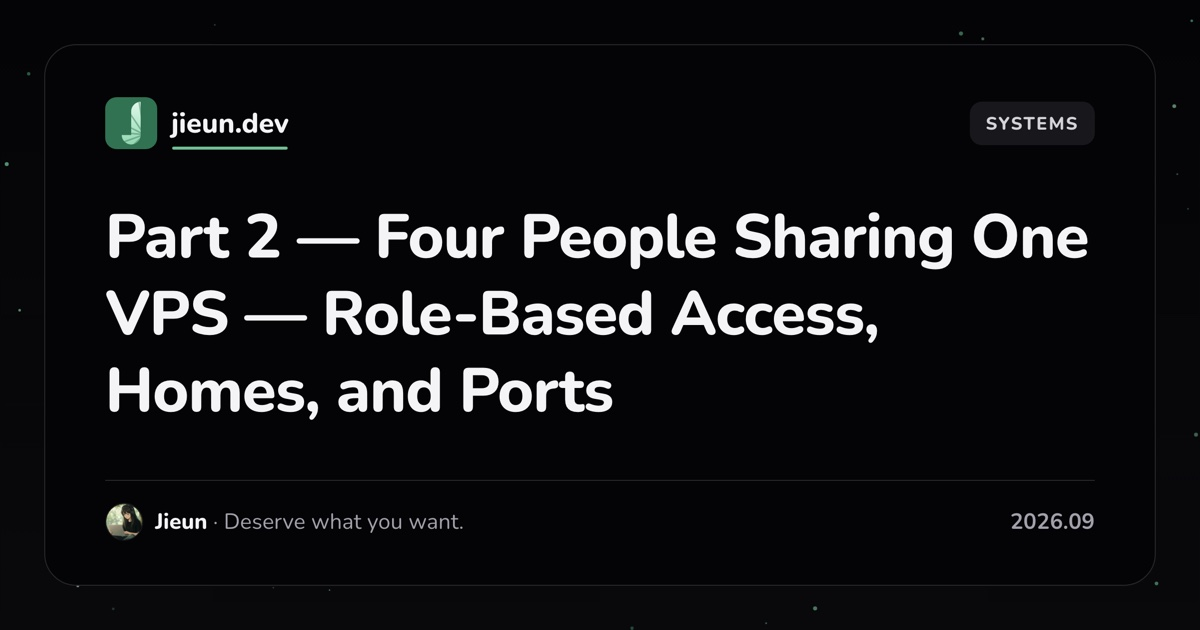
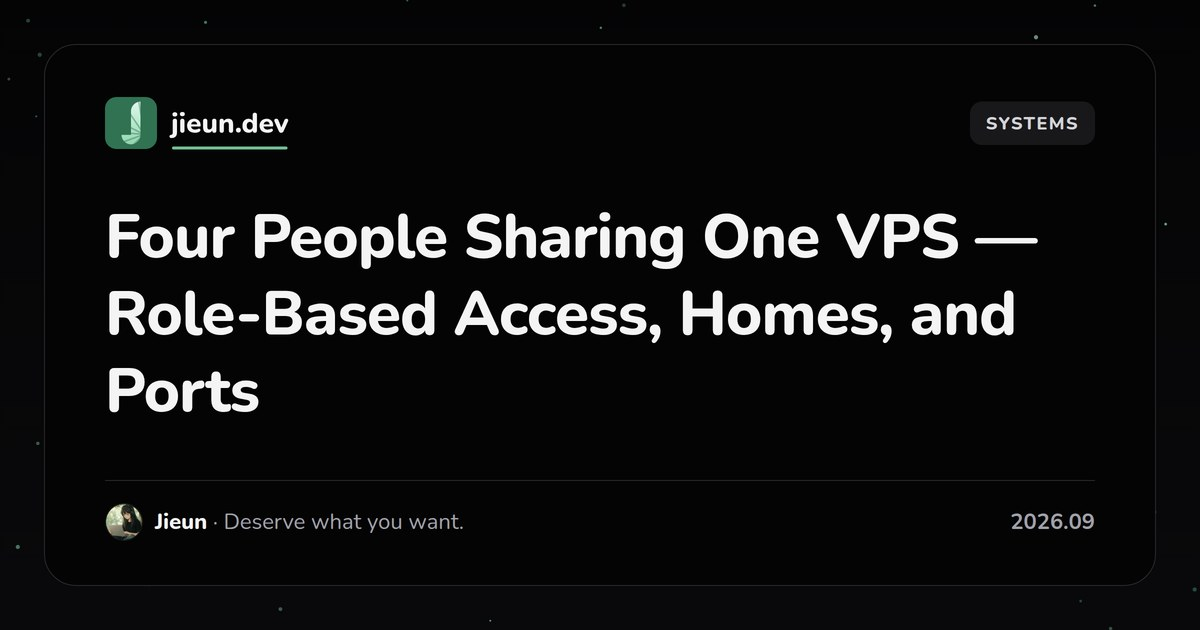
docs: add English title article and refine post presentation

diff --git a/src/content/blog/en/making-ai-blog-titles-readable.md b/src/content/blog/en/making-ai-blog-titles-readable.md
@@ -1,0 +1,172 @@
+---
+title: "How Can We Make AI-Generated Blog Titles Readable?"
+description: "How I improved verbose AI-generated topic titles by having Grok identify the answer readers need from the input and a verified outline, then choose an appropriate title format."
+subtitle: "Letting Grok judge meaning while code preserves and validates titles"
+pubDate: 2026-10-18
+tags: ["llm", "prompt-engineering", "content-automation"]
+category: systems
+cover: /covers/readable-ai-titles-v6.png
+coverFit: contain
+coverBackground: dark
+coverAlt: "A navy diagram showing input and a verified outline leading to question, informational, or experience-based titles. Korean labels distinguish Grok's meaning judgment from preservation rules enforced in code."
+series: wiblog-quality
+seriesOrder: 1
+seriesTitle: "Improving Wiblog Titles and Search"
+draft: false
+---
+
+## Introduction
+
+Wiblog takes a keyword, prepares topic candidates with descriptions, outlines, and sources, and generates an article from the topic the user chooses.
+
+When I reviewed real estate topics myself, the titles often stopped me. They were long and stiff, and I could not immediately tell what answer an article would provide.
+
+This post follows the problems I encountered in use back to the generation instructions and code. In particular, it explains which judgments I left to the LLM and which behaviors I handled in code. It ends with a complete before-and-after comparison from an additional title-generation run on 21 existing topics.
+
+## 1. Discarding Topics Because of Their Titles Led Me to the Generation Path
+
+### I discarded topics because I could not edit their titles
+
+At the time, users could not edit a topic card's title before generating the article. They could edit the title of a generated article, but not while choosing a topic. As a result, I often excluded the entire topic card when I disliked its title.
+
+The saved titles show what this verbosity looked like. The Korean titles are translated into English here and in the comparisons below.
+
+| Area | Original topic title |
+| --- | --- |
+| Yongsan | Cash settlement risks and how to check contract clauses when buying a Yongsan redevelopment apartment |
+| Byeongjeom | Comparing transport, living conditions, market prices, and parking by complex through Byeongjeom officetel resident reviews |
+| Hannam | How to check redevelopment status by district and villa listings before a site visit to Bogwang-dong, Hannam |
+
+The titles seemed to contain useful material, but I did not particularly want to click them. Phrases such as “how to check,” “selection criteria,” and “key information” kept recurring. Placed side by side, topics covering different subjects all looked like similar instruction sheets.
+
+### Overlapping problems made it hard to identify what to fix
+
+I was the only PoC engineer, and I was putting experiments into production almost weekly. Identifying what needed fixing took much longer. Awkward titles, outlines drifting away from the original question, and missing source material were appearing together.
+
+I had to distinguish whether a title merely needed shortening, whether the outline was wrong, or whether the sources were insufficient. That meant checking not just the title on screen, but also the generation instructions and the paths where it changed.
+
+### Titles were generated more than once
+
+The system first generated a title from a keyword, then generated another title after gathering material and writing the outline. Improving only the initial title would still allow it to be overwritten later.
+
+```plaintext
+Keyword → Initial title → Source collection and outline → Final title regeneration
+```
+
+| Generation stage | Previous instruction or behavior | What needed attention |
+| --- | --- | --- |
+| Initial topic generation | Group topics into categories such as methods, steps, comparisons, and precautions, then write an instructional title | Categories and instructional wording could take precedence over a concrete question. |
+| Title generation after the outline | Write a title that represents the outline | Trying to include several outline items could produce a long list. |
+| Updating the topic card | Replace the title with the one generated after the outline | Both generation stages needed consistent title principles. |
+
+Trying to represent transport, living conditions, market prices, and parking adds one item after another to the title. This helped explain the verbosity I saw on screen. Without deciding which answer the title should foreground, representing more of the outline could simply make the title longer.
+
+This was an improvement opportunity identified from the previous code and its visible output. I did not trace every intermediate title for each topic and measure whether it grew at every stage.
+
+## 2. Grok Chose the Title Format; Code Enforced the Rules
+
+### Shortening titles or adding question marks was not enough
+
+Changing “how to check” into “how can I check?” makes a sentence a little more conversational. But someone looking for the current status needs the status itself. “Where can I check the current status?” can change the promised answer into lookup instructions.
+
+The intermediate results also leaned too heavily toward questions. Version 9 of the early comparison still produced many question titles, and it also replaced established real estate terminology: “school districts and apartment prices” became wording closer to “schools and house prices, summarized.” In trying to sound natural, it changed terms familiar to readers in the field.
+
+What these iterations revealed was the need to distinguish **the kind of answer the reader wants**. A direct question about an amount, a request for a schedule or list, and a request for actual experiences did not all need the same instructional tone.
+
+| Format | When to choose it | Wording direction |
+| --- | --- | --- |
+| Question | The reader wants a direct answer about an amount, feasibility, or a choice | Ask how much is needed, whether something is possible, or which option is better. |
+| Informational | The reader wants status, lists, school districts, prices, comparisons, or schedules | State the subject and the information the article provides. |
+| Experience-based | The reader wants real experiences, satisfaction, or inconveniences, and experience-based sources are available | Describe actual experiences without pretending the author personally had them. |
+
+The word “price” did not automatically trigger a question title. Required purchase funds and a comparison of prices across areas call for different answers. There were no quotas for each format or fixed sentence endings.
+
+### I left interpreting the input and outline to Grok
+
+Grok was already generating the titles. The change was to **instruct Grok, within the title-generation prompt, to choose a format first and then write the title.** A separate classifier did not assign the format.
+
+| Input to final title generation | Purpose |
+| --- | --- |
+| Target keyword | Identify what the topic was originally meant to address |
+| A sentence saved by a person | Preserve the subject, conditions, and wording of the question |
+| Verified outline items, descriptions, and source links | Establish the planned article's content and the scope of its evidence |
+| The topic's reader question | Provide wording guidance when no saved sentence exists |
+
+Grok reads the input and outline, determines what answer is being sought, and writes a title in a form that conveys that answer. The aim was to generate a natural title suited to the planned content, without forcing it into a fixed sentence template. Question, informational, and experience-based formats are criteria that help guide that judgment.
+
+The title model does not read the entire finished article. Source texts are used to write and verify an outline, which is then passed to title generation. The reader question is also only wording guidance, not factual evidence.
+
+### From topic to title: a step-by-step timeline
+
+The following is an illustrative example of the processing flow. It shows how a draft covering several points narrows its focus after the outline is available.
+
+| Step | Responsibility and processing | Example data |
+| --- | --- | --- |
+| **01 · Input** | Code passes the input | **Keyword:** Yongsan redevelopment apartments |
+| ↓ **02 · Topic title** | Grok generates an initial title | **Draft:** Cash settlement risks, association membership eligibility, contract clauses, and precautions to know before buying a Yongsan redevelopment apartment |
+| ↓ **03 · Evidence and outline** | Collect source texts → Write and verify the outline | **Outline:** ① Conditions under which an apartment purchase can lead to cash settlement rather than a replacement unit ② Conditions for transferring association membership ③ Checks before signing a contract<br />Each item has a description and supporting sources. |
+| ↓ **04 · Final title** | Grok reads the input and outline, chooses a format, and returns a title and input-coverage assessment | **Core question reflected in the outline:** Could I buy the apartment but still not qualify for a replacement unit?<br />**Title:** Could buying a Yongsan redevelopment apartment leave me facing cash settlement?<br />**Input coverage:** `answered: true`<br />**Reason:** The outline covers conditions leading to cash settlement and checks to make before buying. |
+| ↓ **05 · Code validation** | Check response structure, required assessment, and title rules | **Result:** `status: ready`<br />The finalized title goes into `proposed_title`. |
+| ↓ **06 · Storage and subsequent generation** | Save the finalized title → Preserve it through article generation and rewriting | **Title on the topic card and article:** Could buying a Yongsan redevelopment apartment leave me facing cash settlement? |
+
+Association eligibility and contract clauses remain in the outline as material to explain. The title foregrounds the question connecting them: “Could I buy the property and still end up with cash settlement?” Grok decides what belongs in the title, while code keeps the validated title in subsequent generation steps.
+
+### I handled mandatory behavior in code
+
+Choosing natural wording is different from preserving saved input or checking for required response fields. I left meaning judgments to Grok, but did not rely solely on prompts for rules that code could enforce explicitly.
+
+| Judgment or behavior | Grok's responsibility | Code's responsibility |
+| --- | --- | --- |
+| Title format and wording | Read the input and outline, then choose a suitable form and expression | Do not force a format based on particular words. |
+| Whether the input can be answered | Assess it through `answered` and `reason` in `input_coverage` | Check for missing assessments and hold results that say the input cannot be answered. |
+| A sentence saved by a person | Assess whether the question can be answered | Restore the saved wording as the title after a positive coverage assessment. |
+| Preserving the original intent | Avoid substituting another question when the available material is insufficient | Block certain clear cases where a request for current status is turned into lookup instructions. |
+| Subsequent generation | Write the article to match the finalized title | Use the finalized title during article generation and rewriting. |
+
+`input_coverage` is **an LLM's assessment of meaning**. Checking its value in code does not independently verify the facts in the sources.
+
+A saved sentence takes precedence over format selection. I did not let the model rewrite a person's question into its preferred wording. The rule blocking a change from status to lookup instructions also distinguishes inputs and saved sentences that explicitly asked for lookup instructions in the first place.
+
+## 3. Regenerating Titles for the Same 21 Topics
+
+These are English translations of the Korean titles, not a separate English generation experiment. “Jeonse” refers to Korea's lump-sum deposit rental arrangement; “villa” here refers to low-rise multifamily housing.
+
+| No. | Original title | Regenerated title or outcome |
+| ---: | --- | --- |
+| 1 | Cash settlement risks and how to check contract clauses when buying a Yongsan redevelopment apartment | Could buying a Yongsan redevelopment apartment leave me facing cash settlement? |
+| 2 | Stages and current status of the Bangbae Imgwang 3rd Complex reconstruction project | Bangbae Imgwang 3rd Complex reconstruction: current stage and owner contributions |
+| 3 | What are the sale terms and contact methods for remaining retail units at Mapo Newmad officetel? | Remaining retail units at Mapo Newmad officetel: sale terms and location |
+| 4 | Checking owner-occupancy requirements and the complex environment before a Segyo 2 Jungheung S-Class jeonse contract | Segyo 2 Jungheung S-Class jeonse: owner-occupancy requirements and the appeal of the 34-pyeong layout |
+| 5 | Complexes benefiting from the Osan Station GTX-C extension: Segyo New Town accessibility and price increases | Complexes benefiting from the Osan Station GTX-C extension: accessibility changes in Segyo District 2 |
+| 6 | Segyo M-bus route to Gangnam Station and how to use peak-hour departure reservations | Segyo M-bus route to Gangnam Station and peak-hour service intervals |
+| 7 | Checking Yongsan Park's impact on apartment prices and land transaction permit risks | How the development of Yongsan Park affects nearby apartment transaction prices |
+| 8 | Reasons and investment advantages of buying a villa instead of a Yongsan redevelopment apartment | Is buying a villa better than a Yongsan redevelopment apartment? |
+| 9 | Preparing the deposit and balance after winning a Seoul apartment lottery for unallocated units in October 2026 | After winning a Seoul apartment lottery for unallocated units in 2026, how much is the deposit and when is it due? |
+| 10 | How to check redevelopment status by district and villa listings before a site visit to Bogwang-dong, Hannam | Bogwang-dong, Hannam site-visit route and redevelopment progress by district |
+| 11 | Ansan Lake Town Prugio location, facilities, and resident reviews of drawbacks | Ansan Lake Town Prugio resident reviews |
+| 12 | Yangpyeong Station location analysis: parking and living conditions through resident reviews | Resident reviews of apartments near Yangpyeong Station |
+| 13 | How to check project stages and district status in the Geoyeo–Macheon redevelopment promotion area | Geoyeo–Macheon redevelopment promotion area: project stages in the 2025 notice and changes to Macheon districts |
+| 14 | Aircraft noise in Jangji-dong: officetel reviews and noise-affected area support | Living with aircraft noise in a Jangji-dong officetel: resident reviews |
+| 15 | Apartment jeonse prices near major companies in Dongtan: differences by location and selection criteria | No finalized title — held because the assessment found that the input question could not be answered |
+| 16 | Comparing transport, living conditions, market prices, and parking by complex through Byeongjeom officetel resident reviews | Byeongjeom officetel resident reviews: transport, parking, and maintenance fees by complex |
+| 17 | Jeonse apartments next to elementary schools in Byeongjeom, focusing on deposit levels and complex features | Jeonse apartments next to elementary schools in Byeongjeom: deposit levels and complex pros and cons |
+| 18 | Reasons for the estimated Sanggye Jugong 5th Complex contribution, post-contract risks, and pre-purchase checks | Why the Sanggye Jugong 5th Complex contribution is estimated at ₩500–600 million |
+| 19 | Realistic additional reconstruction contributions and risk checks for Nowon-gu apartments | Sanggye Jugong 5th Complex reconstruction: ₩700 million additional contribution, ₩1.4 billion total investment |
+| 20 | Seongsu Strategic Redevelopment Zone progress and how to check status by district | Seongsu Strategic Redevelopment Zone: progress by district |
+| 21 | Comparing the prime locations of Mokdong New Town Complexes 5 and 7: why Complex 5 leads in reconstruction | Mokdong Complexes 5 and 7: reconstruction feasibility and location comparison |
+
+### The titles made the promised answers clearer
+
+The clearest change was that instructional phrasing and lists receded, while the reader's question or the information provided came to the foreground.
+
+For Seongsu, “progress by district” replaced “how to check status,” making the information available in the article immediately clear. The Jangji-dong title moved from listing noise, reviews, and support information to resident reviews of aircraft noise in an officetel, making the experience being discussed more specific.
+
+The deposit title became longer, but replaced the vague idea of “preparing” with “how much and when?” The point of this change was **to clarify what the article answers**, rather than simply make titles shorter.
+
+## Conclusion
+
+The starting problem was long, stiff titles. Addressing it required both a judgment about what to keep in the title and code that preserved that judgment afterward.
+
+I left interpreting the input and outline and selecting the title's form to Grok. I used code to preserve original wording, handle explicit errors, and retain finalized titles. That boundary let the title express the answer the planned article could provide and kept the result intact through later generation stages.
+
+The next post covers carrying the needed answer into search queries and assigning collected platform documents across topic candidates.

diff --git a/docs/writing/many-cheap-calls-cover-v2.md b/docs/writing/many-cheap-calls-cover-v2.md
@@ -1,0 +1,12 @@
+# 다회 호출 글 커버 v2
+
+- 도구: image_gen
+- 참조: public/covers/many-cheap-calls-blue-cover.png
+- 결과: public/covers/many-cheap-calls-blue-cover-v2.png
+- 기존 비교 도식과 문구를 유지하면서 제목과 수치 크기를 줄였습니다.
+
+## 프롬프트
+
+```text
+Edit this Korean technical blog cover. Keep navy background, restrained blue/slate palette, two-panel comparison, single bar on left and exactly eight blue bars on right, thin rule and footer. Reduce ALL text sizes substantially: headline to 50% original size, big result numbers to 55%, panel titles to 70%, supporting labels to 80%. Increase whitespace; no oversized typography. Exact text must remain correct: 'LLM BENCHMARK / GENERATION PIPELINE'; '한 번에 길게, 대신 짧게 여러 번'; left '한 번에 8,000자 요청', '1회 생성', '3,182자', '단일 생성 최장 분량'; right '1,200자씩 8개 섹션', '8,995자', '조립 후 게이트 통과'; footer '같은 모델 · 단일 생성과 분할 생성 비교', 'jieun.dev'. Retain relative hierarchy while making graphic bars more visually prominent than lettering. Clean precise Korean typography. Same wide aspect ratio.
+```

diff --git a/src/content/blog/ko/part1-three-tier-dev-environment.md b/src/content/blog/ko/part1-three-tier-dev-environment.md
@@ -1,5 +1,5 @@
 ---
-title: "Part 1 — 16GB 맥북 네 대 대신 96GB VPS를 선택한 이유"
+title: "16GB 맥북 네 대 대신 96GB VPS를 선택한 이유"
 description: "코드는 서버에 있고 컴파일도 서버가 하고, 맥북은 화면만 받습니다. 네 명이 한 대를 나눠 쓰게 되면서 이 구조가 어디까지 맞고 어디부터 타협인지 다시 따져봤습니다. dev 서버 하나가 4시간에 1.2GB에서 3.7GB로 자라는 걸 보고서야 무엇을 서버에 둬야 하는지 분명해졌습니다."
 subtitle: "16GB 맥북의 한계 때문에 코드 실행과 빌드를 96GB VPS로 옮기고, 맥북·개발 서버·운영 서버의 역할을 나눴습니다. 화면 개발에는 적합했지만 운영 API에 연결되는 구조여서, e2e 테스트는 별도 로컬 환경으로 분리해야 한다고 판단했습니다."
 pubDate: 2026-09-15

diff --git a/src/content/blog/ko/part2-four-people-one-dev-machine.md b/src/content/blog/ko/part2-four-people-one-dev-machine.md
@@ -1,5 +1,5 @@
 ---
-title: "Part 2 — VPS 한 대를 네 명이 나눠 씁니다 — 역할별 권한·홈·포트 격리 설계"
+title: "VPS 한 대를 네 명이 나눠 씁니다 — 역할별 권한·홈·포트 격리 설계"
 description: "16GB 맥북의 한계를 느껴 빌린 96GB·18코어 서버를 개발자 Jieun·Sungsuk, 디자이너 Juhee, 마케터 Jina가 함께 쓰게 됐습니다. 역할에 따라 권한과 프로젝트 홈, 포트를 나누고 운영 서버는 공용 터널 서비스 뒤에 격리했습니다."
 subtitle: "개발자 두 명과 디자이너, 마케터가 VPS 한 대를 함께 쓰면서 역할별로 계정과 홈, 포트를 나눴습니다. 각자의 작업공간은 분리하되, 운영 API 연결은 공용 터널 서비스가 담당하도록 구성했습니다."
 pubDate: 2026-09-16

diff --git a/src/content/blog/en/part1-three-tier-dev-environment.md b/src/content/blog/en/part1-three-tier-dev-environment.md
@@ -1,5 +1,5 @@
 ---
-title: "Part 1 — Why We Chose a 96GB VPS Instead of Four 16GB MacBooks"
+title: "Why We Chose a 96GB VPS Instead of Four 16GB MacBooks"
 description: "The code lives on the server, the server compiles it, and the MacBook only runs the browser. Once four people started sharing one machine, we had to re-check where this structure is sound and where it is a compromise. Seeing one dev server grow from 1.2GB to 3.7GB in four hours made it clear what belongs on the server."
 subtitle: "A dev server that grew from 1.2GB to 3.7GB in 4 hours"
 pubDate: 2026-09-15

diff --git a/src/content/blog/en/part2-four-people-one-dev-machine.md b/src/content/blog/en/part2-four-people-one-dev-machine.md
@@ -1,5 +1,5 @@
 ---
-title: "Part 2 — Four People Sharing One VPS — Role-Based Access, Homes, and Ports"
+title: "Four People Sharing One VPS — Role-Based Access, Homes, and Ports"
 description: "Developers Jieun and Sungsuk, designer Juhee, and marketer Jina started sharing the 96GB, 18-core server we rented after hitting the limits of 16GB MacBooks. We separated permissions, project homes, and ports by role, and isolated production access behind a shared tunnel service."
 subtitle: "Two developers, a designer, and a marketer on one server"
 pubDate: 2026-09-16

diff --git a/src/content/blog/ko/many-cheap-calls-over-one-good-model.md b/src/content/blog/ko/many-cheap-calls-over-one-good-model.md
@@ -14,7 +14,7 @@ tags:
     "cost",
   ]
 category: systems
-cover: /covers/many-cheap-calls-blue-cover.png
+cover: /covers/many-cheap-calls-blue-cover-v2.png
 coverFit: contain
 coverBackground: dark
 coverAlt: "남색 배경의 단일·분할 생성 비교 도식 — 같은 모델에 한 번에 8,000자를 요청한 최장 결과는 3,182자, 1,200자씩 8개 섹션으로 나누어 조립한 결과는 8,995자"
